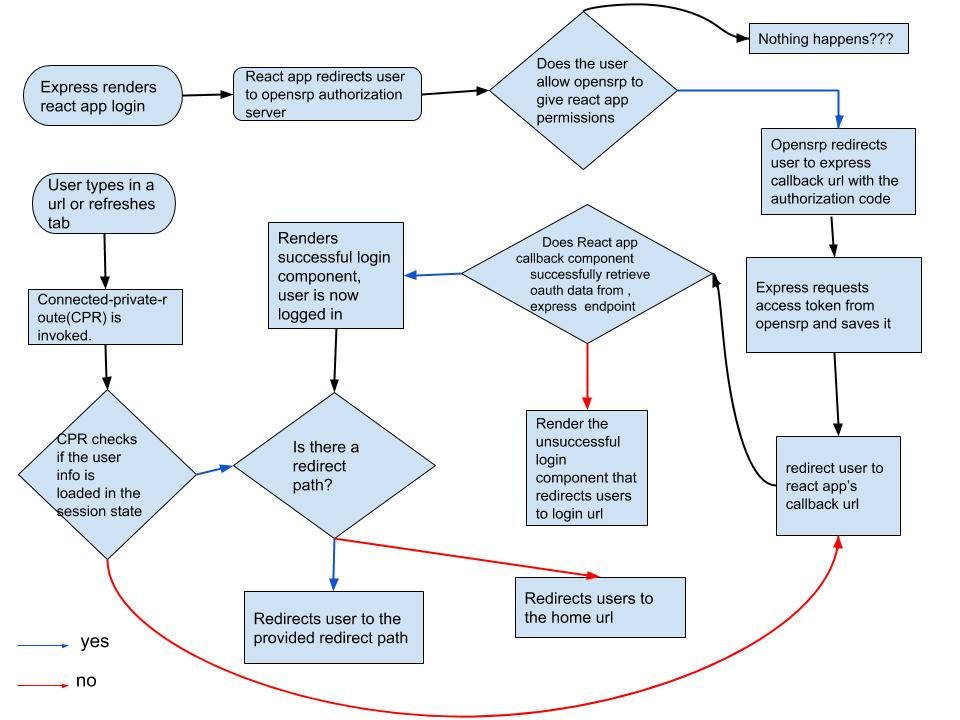
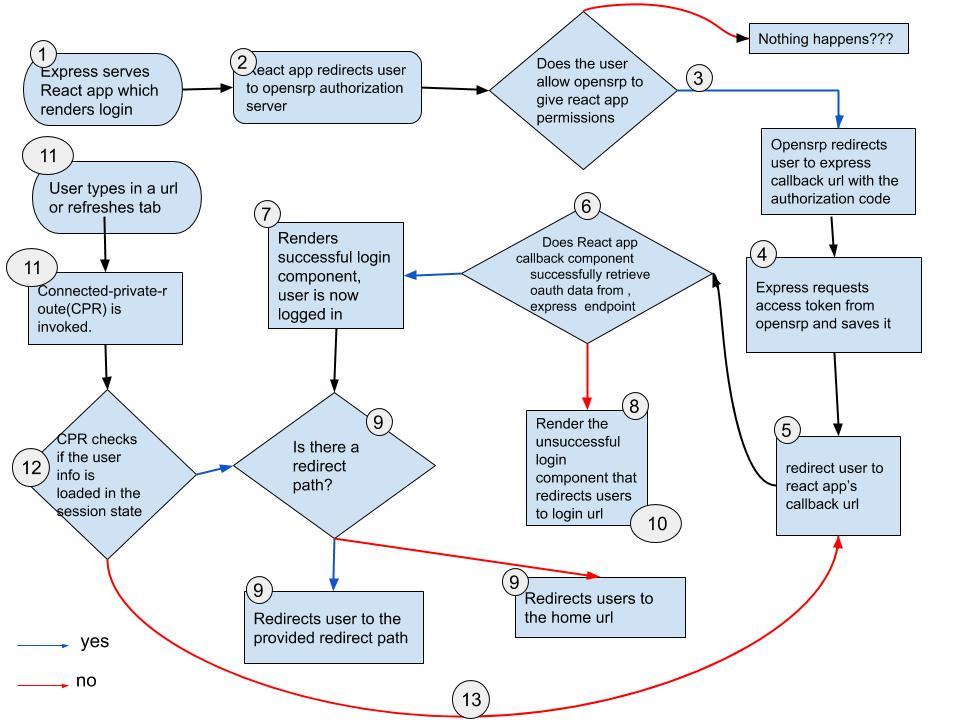
Link steps in readme to flowDiagram steps using numbers

diff --git a/server/docs/README.md b/server/docs/README.md
@@ -2,15 +2,15 @@
 
 ## Steps
 
-1. User(resource-owner) loads domain in browser(user-agent), the browser request is initially handled by express and returns the react-app files.
+1. User(resource-owner) loads domain in browser(user-agent), the browser request is initially handled by express which returns the react-app files.
 
 2. [Assuming we start at login] user clicks on provider link, the react-app directs the user to the opensrp authorization server
 
 3. After the user accepts to the authorization, the authorization server, redirects the user to the express callback route with the authorization code.
 
-4. The express callback uses the code to query for an access-token from the server; saves the session and sets a secure httpOnly cookie that contains the session ID.
+4. The express callback uses the authorization code to query for an access-token from the server; saves the session and sets a secure httpOnly cookie that contains the session ID.
 
-5. The express server then redirects the user to the react's app callback url.
+5. The user is then redirected to react's app callback url.
 
 6. The rendered callback component from [@onaio/gatekeeper](https://github.com/onaio/js-tools/blob/master/packages/gatekeeper/README.md) attempts to get the authentication details from the express server via an exposed endpoint and hydrates the state with the same.
 
@@ -22,11 +22,11 @@
 
 10. The unsuccessful login component redirects the user to the login url.
 
-11. Where the user is already logged in and they either refresh or open the app in new page. The connected private route [@onaio/connected-private-route](https://github.com/onaio/js-tools/blob/master/packages/connected-private-route/README.md) component provides the initial point of contact.
+11. Where the user either refreshes or opens the app in new page. The connected private route [@onaio/connected-private-route](https://github.com/onaio/js-tools/blob/master/packages/connected-private-route/README.md) component provides the initial point of contact.
 
 12. The component checks the reducer session store for authentication status
 
-13. If the user details are not found in the store then it directs the user to the **no. 6** .
+13. If the user details are not found in the store then it directs the user to the **no. 5** .
 
 14. If the connected-private-route finds that the user is logged in then they let the user redirect to the route that they initially wished to view.
 
